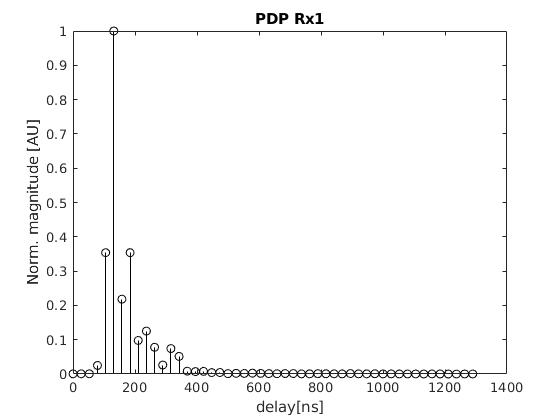
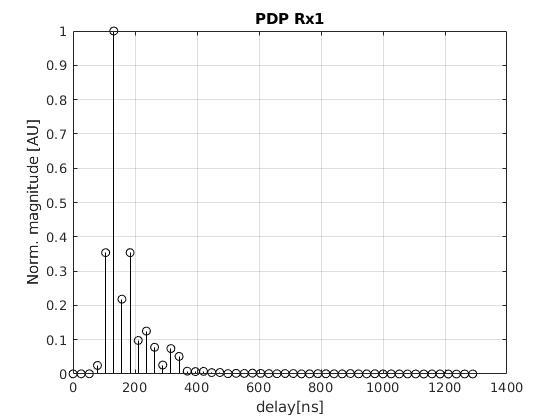
spatial analysis , simulation for S-V also in function

diff --git a/analisis/simulationSalehValenzuela.m b/analisis/simulationSalehValenzuela.m
@@ -1,0 +1,112 @@
+function [tSim,pdpSim , Lambda,lambda,Gamma,gamma] = simulationSalehValenzuela(pdp, Fs,clusterFirstIdx,clusterLastIdx,noiseThr)
+
+
+t = 0:1/Fs:length(pdp)/Fs -1/Fs;
+t=t*1e9; % [ns]
+
+figure
+grid on
+
+stem(t,pdp)
+title('PDP')
+xlabel('delay[ns]'), ylabel('Magnitude') 
+hold on
+
+nClus = length(clusterFirstIdx);
+
+%%%Avg cluster arrival time
+
+deltaT= diff(clusterFirstIdx) / Fs * 1e9;
+
+Lam = 1/mean(deltaT);
+
+%%%Avg ray arrival time
+
+[tRay , pdp_f]=noiseFilterWithThr(t,pdp,noiseThr);
+
+deltaTRay = diff(tRay );
+
+lam=1/mean(deltaTRay);
+
+%%%% Cluster decay
+
+
+b002=1; % amplitude of first cluster (in normalized case is always 1)
+
+
+
+for i=1:nClus
+    raysInClusterIdx{i} = clusterFirstIdx(i):clusterLastIdx(i);
+end
+
+
+
+x=t(clusterFirstIdx) -t( clusterFirstIdx(1) );
+y= pdp(clusterFirstIdx);
+Gam=minSqExp( x,y);% [ns]
+clusterDecay = b002*exp(-t/Gam);
+
+plot(t+(clusterFirstIdx(1)-1)/Fs*1e9,clusterDecay);
+
+
+%Ray decays
+
+x=[];
+y=[];
+for i=1:nClus
+    
+    idx = clusterFirstIdx(i);% first sample index
+    b=pdp(idx); % first sample amplitude
+    raysIdxs=cell2mat(raysInClusterIdx(i));
+    
+    x=[x (t( raysIdxs ) -t( idx ) )];
+    y=[y (pdp(raysIdxs)/b)];
+    
+    
+    
+end
+
+%data sort
+c= [x;y];
+c =sortrows(c').';
+x=c(1,:);
+y=c(2,:);
+
+gam=minSqExp( x,y);% [ns]
+ 
+for i=1:nClus
+    
+    idx = clusterFirstIdx(i);% first sample index
+    b=pdp(idx); % first sample amplitude
+    
+    rayDecay = b*exp(-t/gam);
+
+    plot(t+(idx-1)/Fs*1e9,rayDecay);
+    
+end    
+ hold off
+ 
+ 
+
+%%%%%%% PDP simulation Saleh Valenzuela
+ 
+%MIMO-OFDM Wireless Communications with MATLAB��   Yong Soo Cho, Jaekwon Kim, Won Young Yang and Chung G. Kang 
+%2010 John Wiley & Sons (Asia) Pte Ltd 
+ 
+b002=1; % Power of 1st ray of 1st cluster  
+N= 1; % Number of realizations
+Lambda = Lam; % cluster arrival time
+lambda=lam;  % ray arrival time
+Gamma=Gam; % cluster decay
+gamma=mean(gam); %ray decay
+sigma_x=1; % Standard deviation of log-normal shadowing 
+Nlos = 0; % 1 for Nlos, 0 for Los
+
+[hsim,tSim,t0sim,npsim]= SV_model_ct(Lambda,lambda,Gamma,gamma,N,b002,sigma_x,Nlos);
+
+
+    ryy= hsim*hsim';
+    pdpSim = diag(ryy);
+    pdpSim = pdpSim/max(pdpSim);
+    
+end

diff --git a/analisis/analisis_spatial.m b/analisis/analisis_spatial.m
@@ -29,18 +29,18 @@ for j=1:measurePoints
 
     %%%%%%% PDP
 
-    pdp=pdpCalc(hc,Fs,0,k,1,noiseThr,4); 
+    pdp=pdpCalc(hc,Fs,0,k,1,noiseThr,4);
+    pdpx(j,:) = pdp;
 
 
     t = 0:1/Fs:length(pdp)/Fs -1/Fs;
     t=t*1e9;
     
     figure
-    grid on
-
     stem(t,pdp,'black')
     title("PDP Rx"+j)
     xlabel('delay[ns]'), ylabel('Norm. magnitude [AU]') 
+    grid on
 
     [tmean(j),trms(j),tmax(j),b_50(j)]=paramDelay(t, pdp,plotMode,noiseThr);
 
@@ -49,9 +49,76 @@ end
 
 
 figure
+loglog(distance,trms,'blacko')
+x1 = 12;
+x2 = 40;
 
-stem(distance,trms)
 title("RMS delay vs Tx-Rx separation ")
 xlabel("Tx-Rx separation [m]")
 ylabel("RMS delay [ns]")    
+grid on
+hold on
 
+%model is y = a*x^b , curve fitting tool (cftool) used to estimate a and b
+a= 20.12;
+b=0.43;
+
+tcurve = 12:40;
+
+loglog(tcurve,a* (tcurve).^b,'r--')
+
+leg{1} = "Measured";
+leg{2} = "p="+b;
+legend(leg)
+legend('Location','southeast')
+
+axis([x1 x2 50 100])
+hold off
+
+
+
+%%% spatial PDP average
+
+sPDP = mean(pdpx);
+sPDP = sPDP/max(sPDP);
+
+[tmeanSp,trmsSp,tmaxSp,b_50Sp]=paramDelay(t, sPDP,plotMode,noiseThr);
+
+%%% simulation Saleh Valenzuela
+
+clusterFirstIdx = [6 9  11 15 18];
+clusterLastIdx  = [8 10 14 17 22];
+
+[ tSim ,pdpSim, Lambda,lambda,Gamma,gamma] =  simulationSalehValenzuela(sPDP,Fs,clusterFirstIdx,clusterLastIdx,noiseThr);
+
+[tmeanSim,trmsSim,tmaxSim,b_50Sim]=paramDelay(tSim, pdpSim,plotMode,noiseThr);
+
+%%% results
+
+figure
+stem(t,sPDP,'black')
+
+title("PDP of the building")
+xlabel('delay[ns]'), ylabel('Norm. magnitude [AU]') 
+grid on
+hold on
+
+%%% alignment of plots to its maxes
+[v, dm] = max(sPDP);
+[v, dsim] = max(pdpSim);
+
+offsetM = (dm-1)/Fs*1e9 ; % ns
+offsetS = tSim(dsim);
+d = abs(dm-dsim);
+
+offset = abs(offsetM-offsetS);
+%%%
+
+plot(tSim + offset,pdpSim,'r--')
+axis([0 1000 0 1])
+
+leg{1} = "Measured";
+leg{2} = "Simulated";
+legend(leg)
+
+hold off

diff --git a/analisis/minSqRoot.m b/analisis/minSqRoot.m
@@ -1,17 +1,16 @@
-function [est] = minSqExp( x,y)
+function [est] = minSqRoot( x,y)
 
-    %modelo y=b* exp(-x/Gam)  +r, r es ruido , vamos a estimar el parametro Gam
+    %modelo y=x^Gam +r, r es ruido , vamos a estimar el parametro Gam
     % x,y,  datos observados
 
     N=1000;
 
-    rango=0:1/N:200;
+    rango=-1:1/N:100;
     U=zeros(1,length(rango));
 
-    b=y(1);
     for j=1:length(rango) %un ciclo para probar el modelo para diferentes valores
 
-        theta=b*exp(-x/rango(j));
+        theta=x.^rango(j);
         U(j)=sum((y-theta).^2);
 
     end
@@ -22,7 +21,7 @@ function [est] = minSqExp( x,y)
     %figure
     %plot(rango,U)
     %xlabel("theta")
-   % ylabel("U(theta)")
+   %ylabel("U(theta)")
 
     [value,ind] = min(U);
     est=rango(ind); % la solucion, el parametro estimado
@@ -31,7 +30,7 @@ function [est] = minSqExp( x,y)
     %stem(x,y)
    
     %hold on
-   % plot(x,b*exp(-x/60));
+    %plot(x,a +est*x);
     %hold off
 
 end

diff --git a/analisis/minSqLin.m b/analisis/minSqLin.m
@@ -15,23 +15,23 @@ function [est] = minSqLin( x,y,a)
 
     end
 
-    figure
-    plot(x,y);
+    %figure
+    %plot(x,y);
     
-    figure
-    plot(rango,U)
-    xlabel("theta")
+    %figure
+    %plot(rango,U)
+    %xlabel("theta")
    %ylabel("U(theta)")
 
     [value,ind] = min(U);
     est=rango(ind); % la solucion, el parametro estimado
 
-    figure
-    stem(x,y)
+    %figure
+    %stem(x,y)
    
-    hold on
-    plot(x,a +est*x);
-    hold off
+    %hold on
+    %plot(x,a +est*x);
+    %hold off
 
 end
 
